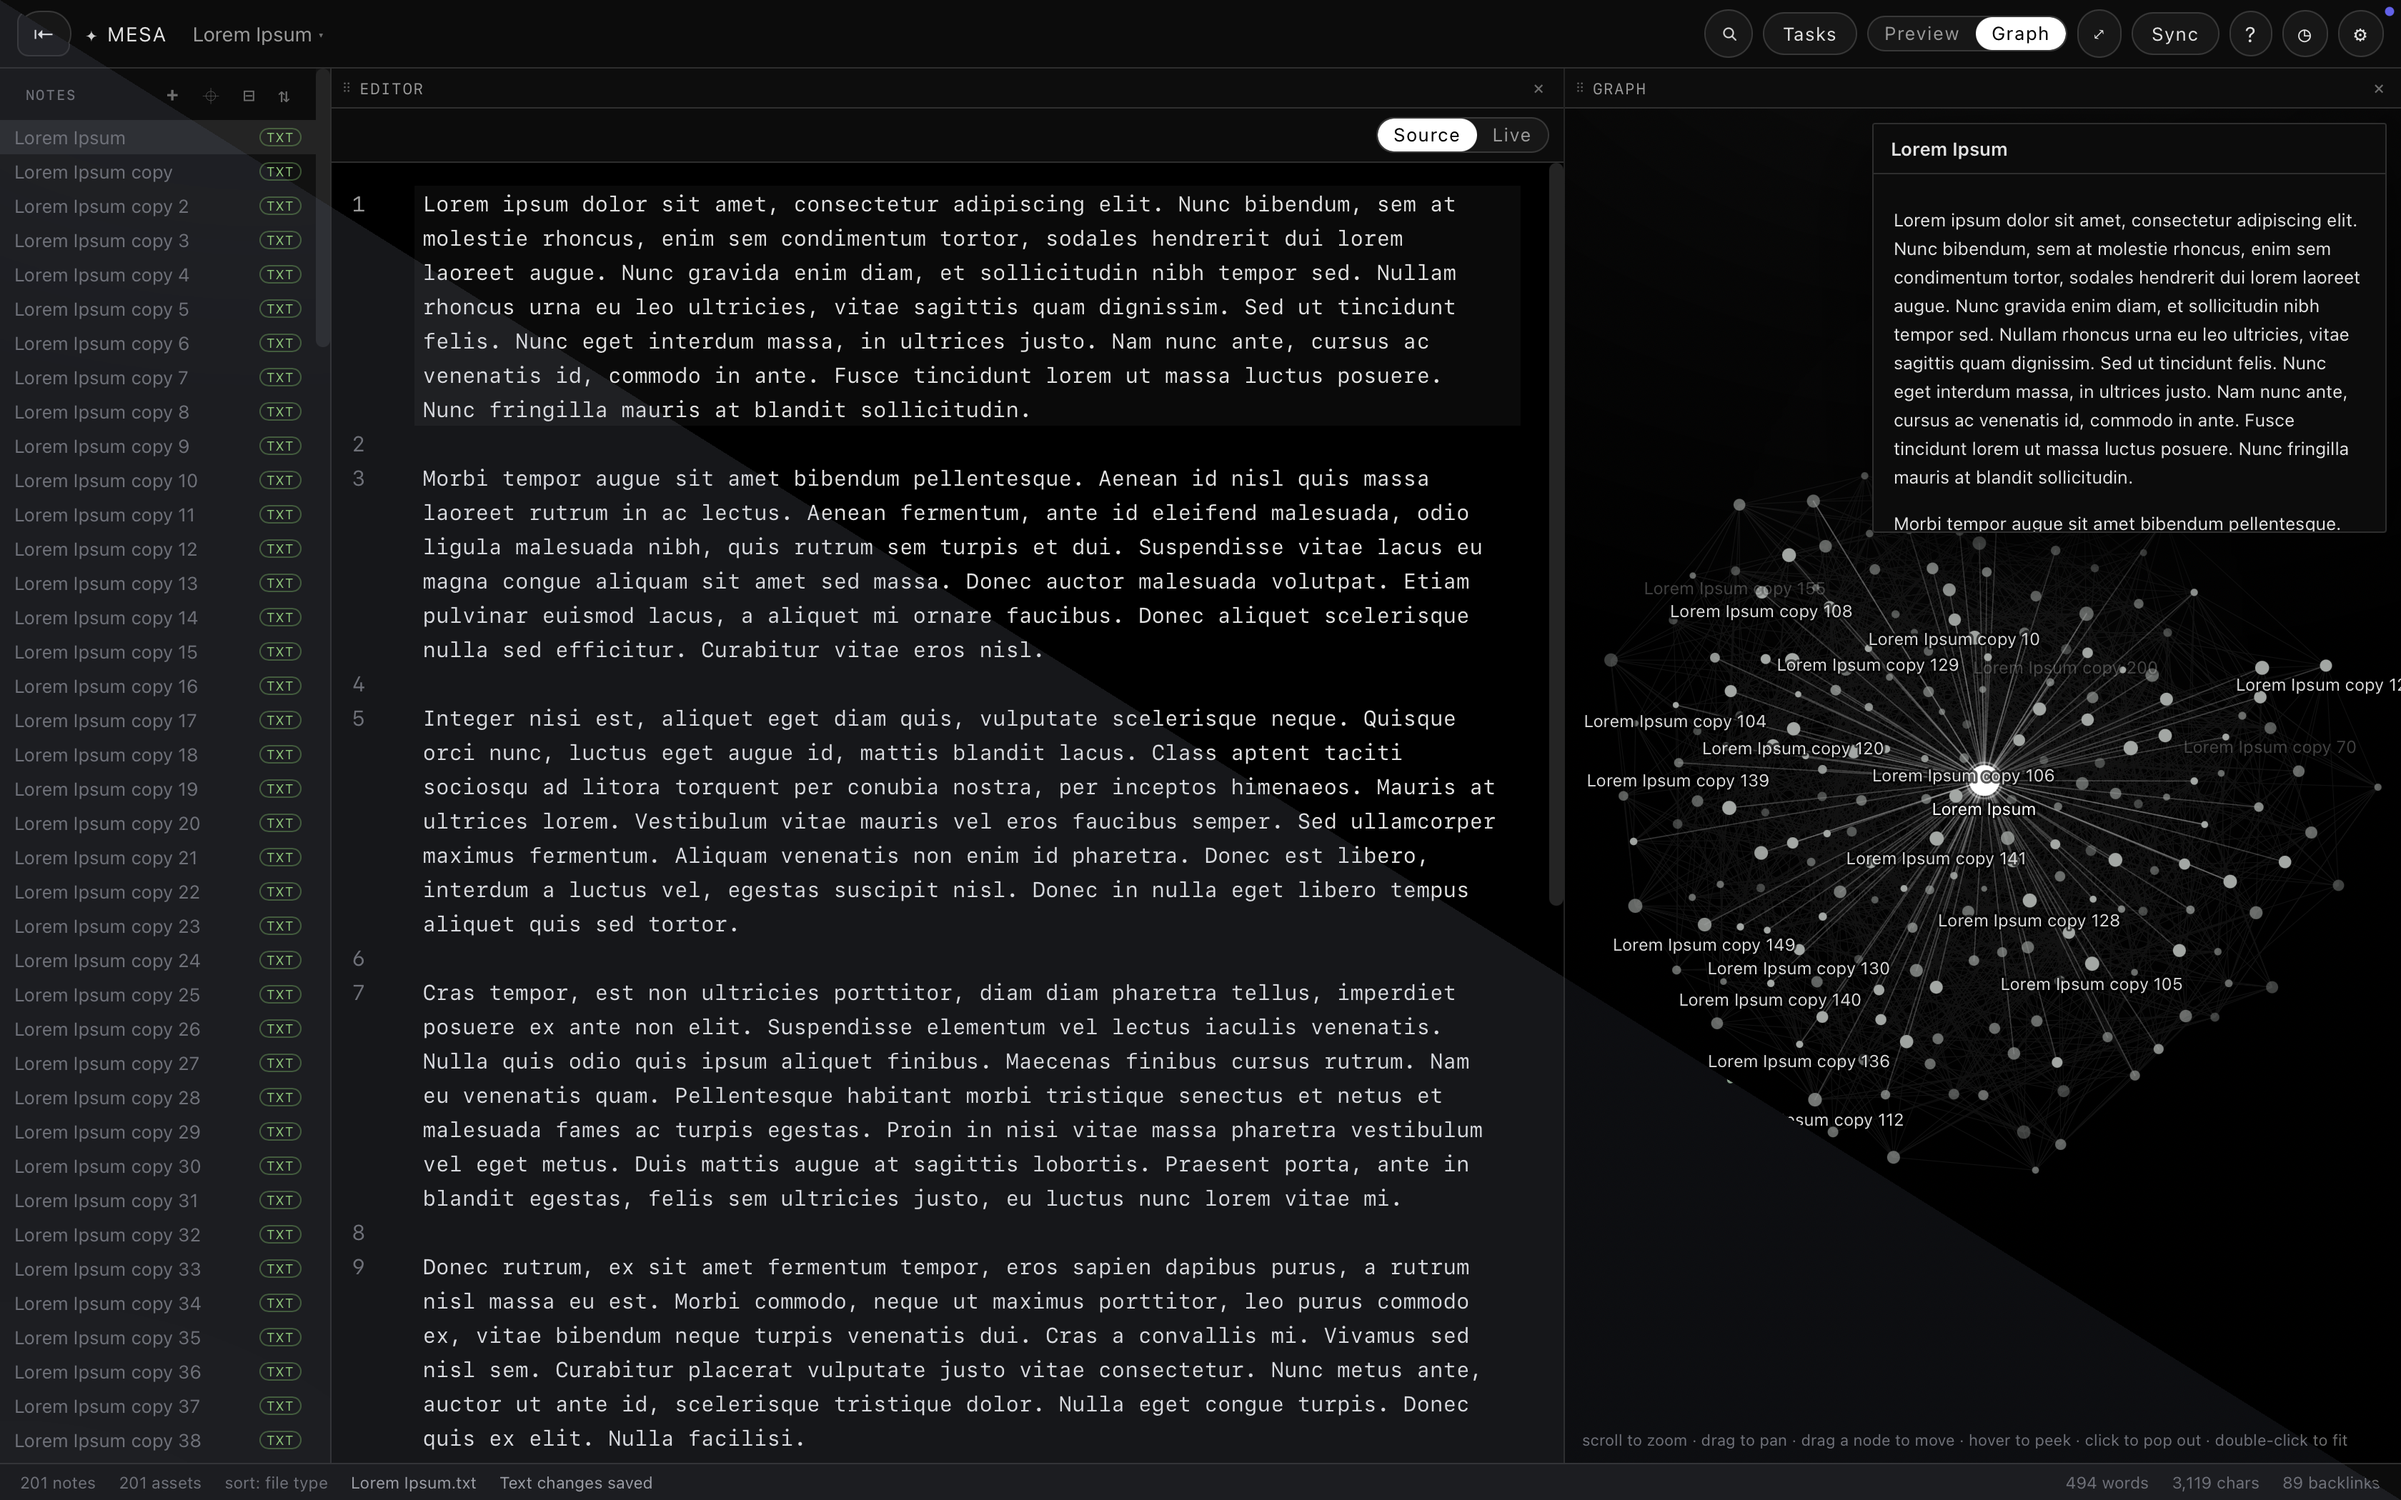
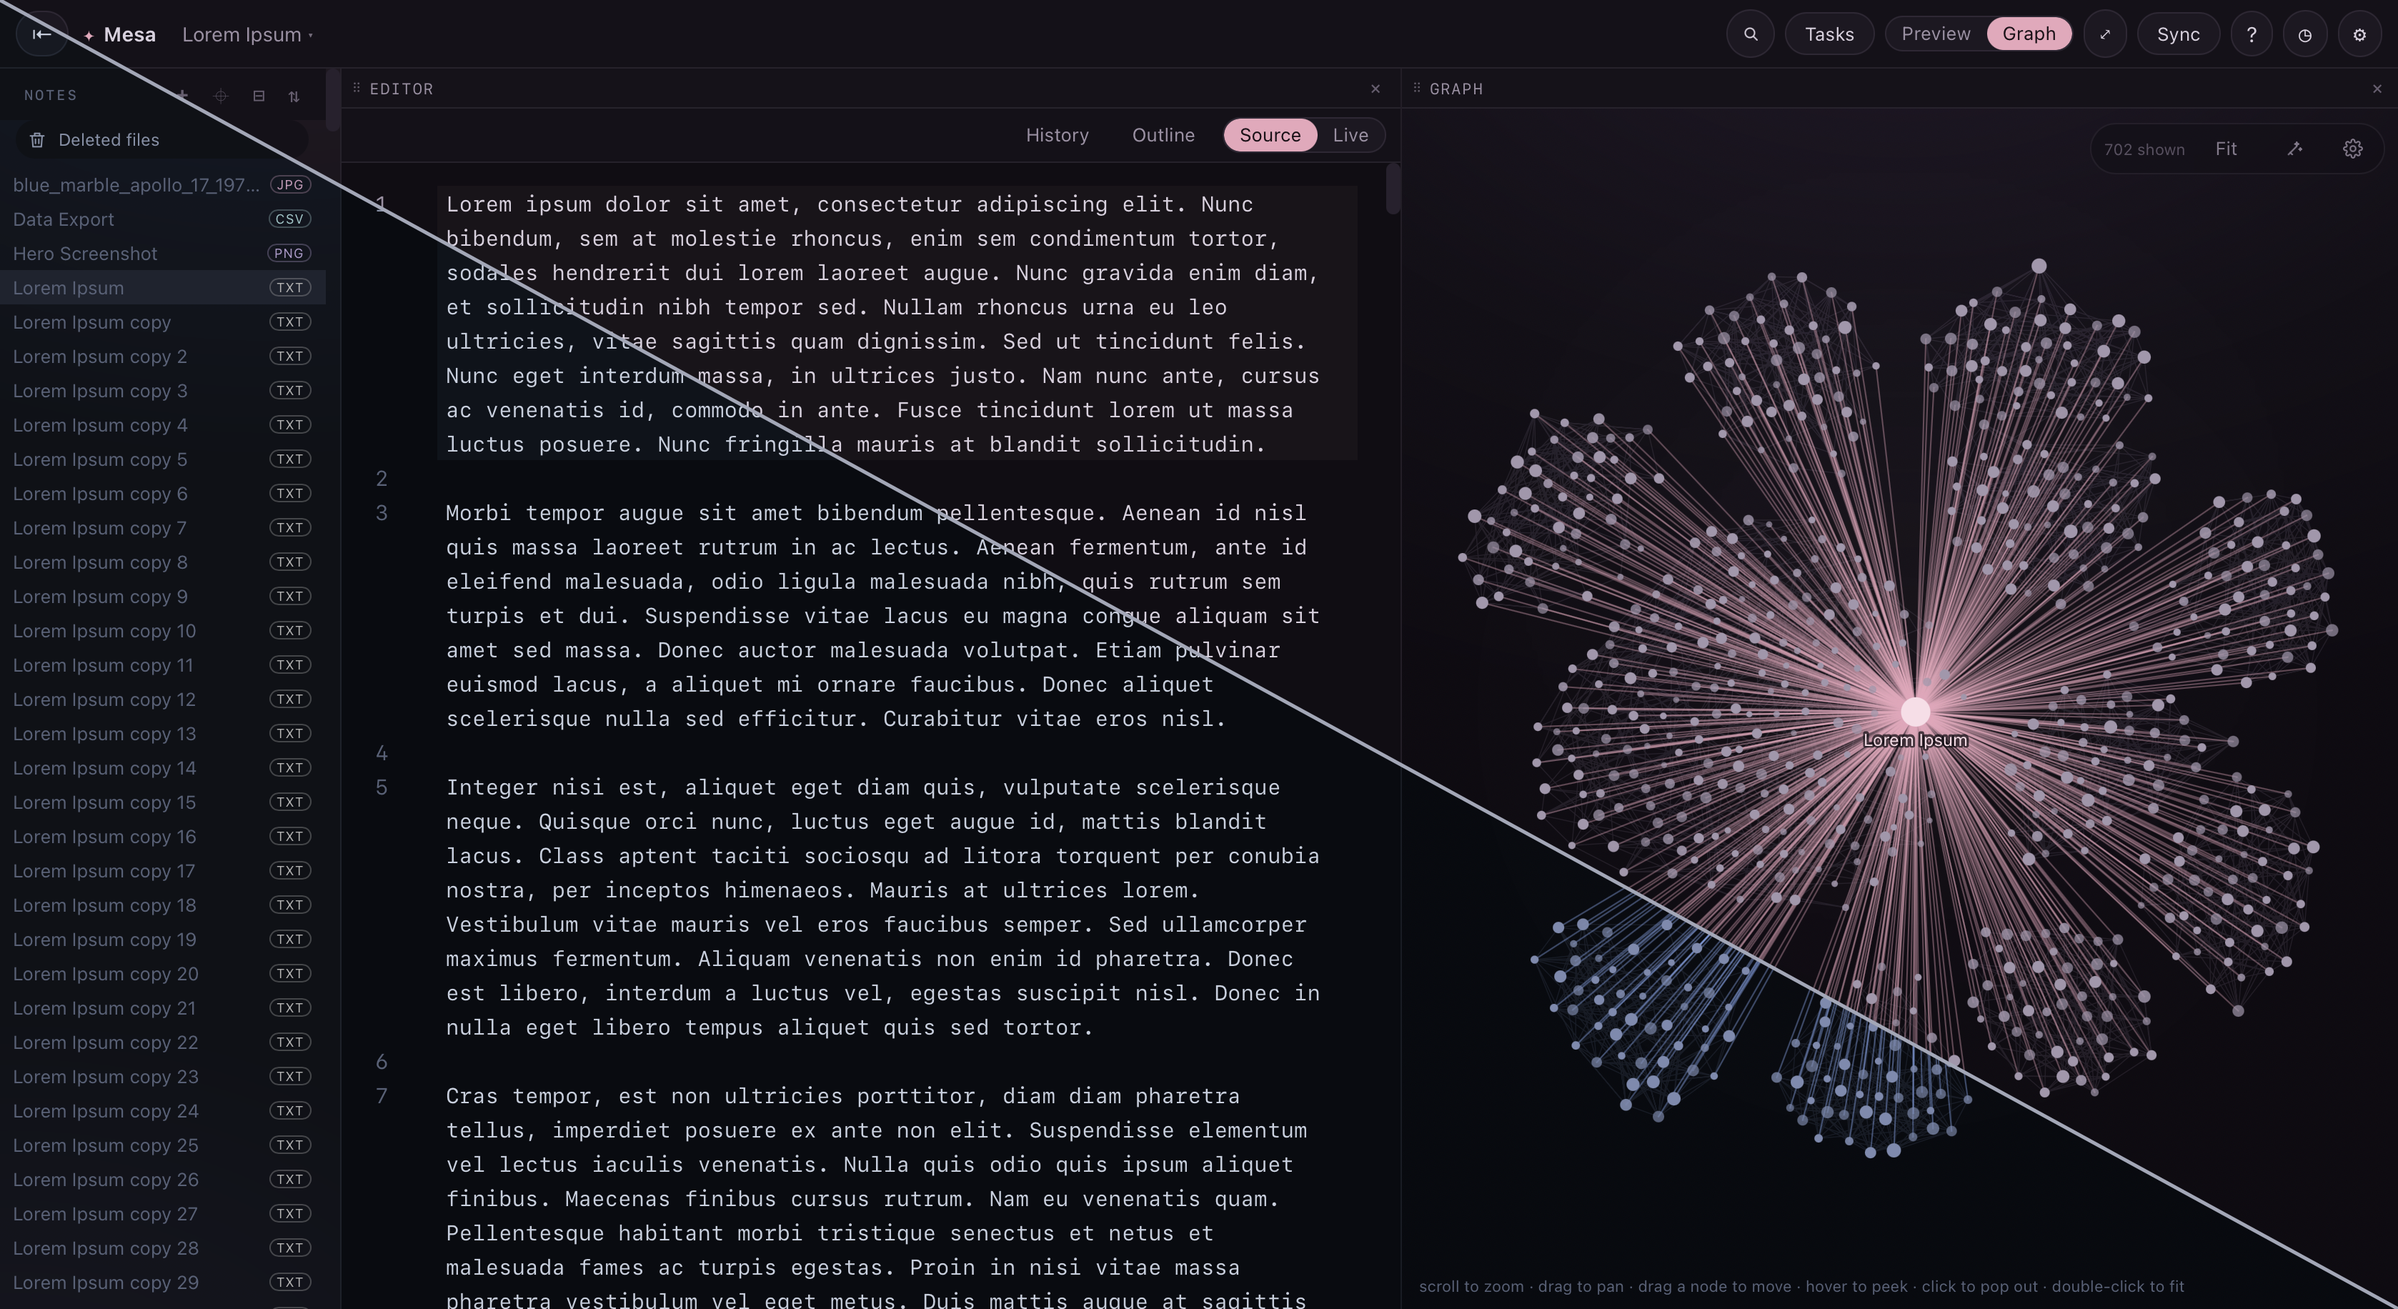
Update README and workspace media

diff --git a/README.md b/README.md
@@ -1,5 +1,5 @@
 <p align="center">
-  <img src="docs/mesa-wordmark.png" alt="Mesa" width="440" />
+  <img src="docs/mesa-wordmark.gif" alt="Mesa" width="440" />
 </p>
 
 <p align="center">
@@ -7,7 +7,7 @@
 </p>
 
 <p align="center">
-  <img src="docs/mesa-hero-themes.png" alt="Mesa showing a sample document, its linked notes and the living graph" width="100%" />
+  <img src="docs/mesa-hero-themes.png" alt="Mesa sample workspace in Midnight and Dusk with its living graph" width="100%" />
 </p>
 
 <p align="center">
@@ -83,14 +83,25 @@ release, which is still pending.
 
 ## Demo
 
-Explore a sample vault in Darkroom: navigate notes, search their contents, and
-expand the living graph.
+Explore a sample vault across System, Darkroom and Midnight: animate the graph,
+preview search results, open an image, and use Calendar and Pi in the overlay.
 
-![90-second Mesa demo in Darkroom](docs/mesa-demo.gif)
+![67-second Mesa workspace demo](https://raw.githubusercontent.com/xobash/xo-mesa/main/docs/mesa-demo.webp)
+
+## Configuration and usage
+
+Choose a folder as your vault when Mesa opens. No database or environment file
+is required for the core workspace. Use Settings to choose a theme and graph
+settings to adjust the graph. Optional Pi setup is covered in [Pi agent](docs/pi-agent.md).
+
+Open a note from the sidebar, switch between Source and Live, and hover a graph
+node to preview its document. Use the Search button for indexed text and previews;
+press `Shift+Tab` to open the overlay with Calendar and other tools. See
+[keyboard navigation](docs/keyboard-navigation.md) for shortcuts.
 
 ## Development
 
-To work on Mesa, install Node.js 20.19+, npm, Rust and the
+To work on Mesa, use the pinned Node.js 22.22.3, npm, Rust 1.96.0 and the
 [native platform prerequisites](docs/cross-platform.md). From the checkout:
 
 ```bash
@@ -100,6 +111,14 @@ npm run mesa
 
 `npm run dev` starts the browser demo. For tests, builds and contribution guidance,
 see [CONTRIBUTING.md](CONTRIBUTING.md).
+
+## Contributing and support
+
+Fork the repository, create a focused branch, make your change, run the relevant
+checks, and open a pull request. See [CONTRIBUTING.md](CONTRIBUTING.md) for the
+full development and test workflow. Report bugs or ask for help in
+[GitHub Issues](https://github.com/xobash/xo-mesa/issues); include reproduction
+steps and your operating system, and keep private vault data out of reports.
 
 ## Architecture
 

diff --git a/docs/security-controls.md b/docs/security-controls.md
@@ -93,7 +93,7 @@ past run is current or that every attack variant is covered.
 | ID | Purpose | Origin | Regression / enforcement |
 | --- | --- | --- | --- |
 | CONTROL-022 | Detect additional secret formats in reachable public history and exact committed bytes | INCIDENT-001; AUDIT | `independent-privacy.mjs` verifies Gitleaks 8.30.1 by SHA-256, scans full Git history and exported HEAD in frontend CI; upstream detector suite supplies format coverage. Redacted failures stop CI. |
-| CONTROL-023 | Reject personal raster metadata without interpreting compressed pixels as comments | PREVENTIVE | `asset-metadata.check.mjs` executes EXIF, PNG text/trailing data and GIF compressed-marker regressions; `audit:assets` scans every binary in the exact public allowlist, including nested icon payloads and unsupported formats, in CI. |
+| CONTROL-023 | Reject personal raster metadata without interpreting compressed pixels as comments | PREVENTIVE | `asset-metadata.check.mjs` executes EXIF, PNG text/trailing data, GIF compressed-marker and WebP nested-metadata/bounds regressions; `audit:assets` scans every binary in the exact public allowlist, including nested icon payloads and unsupported formats, in CI. |
 | CONTROL-024 | Prevent compiler/runtime drift between development, CI and release | AUDIT | `toolchain-contract.check.mjs` checks exact Node/Rust/container pins and wrappers; frontend CI executes it. |
 | CONTROL-025 | Check release/security scripts for undefined names, unreachable code and unused variables | PREVENTIVE | `npm run lint` covers `src` and `scripts`; CI rejects warnings. Existing behavior suites remain required. |
 
@@ -127,3 +127,8 @@ requires a compatible complete Linux binding-chain upgrade and Linux acceptance;
 the exception does not fix the upstream advisories.
 
 Private working-document path checks apply to the staged tree and candidate ancestry. Secret-byte and identity checks still cover every fetched public ref. Other published branches require their own content review and cleanup; a passing candidate scan does not establish their removal.
+
+The historical text scan reads object-sized batches, so accumulated binary media
+does not exhaust one response buffer. The regression
+`scans history beyond the aggregate buffer limit and still rejects historical private text`
+checks both clean large histories and private text retained beside those binaries.
